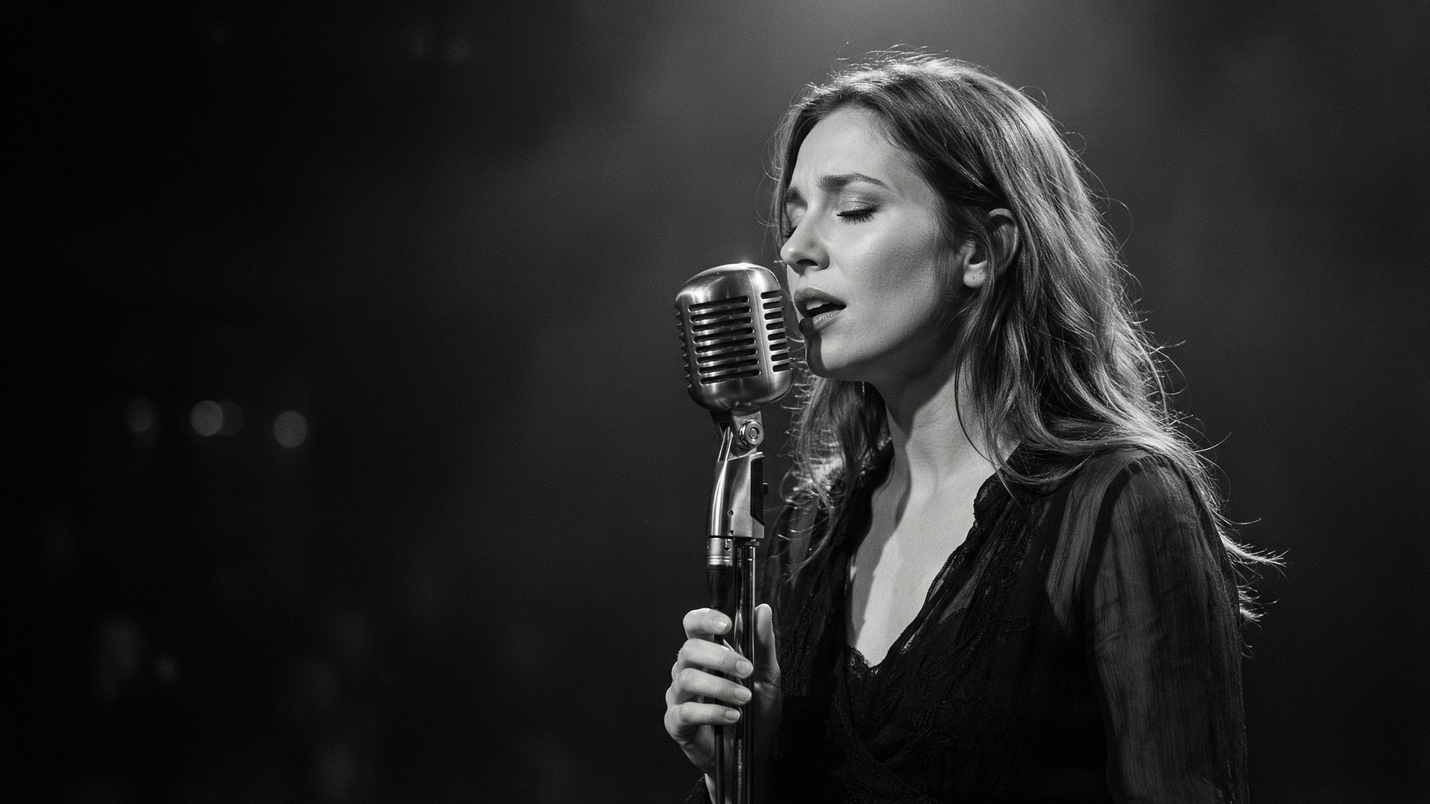
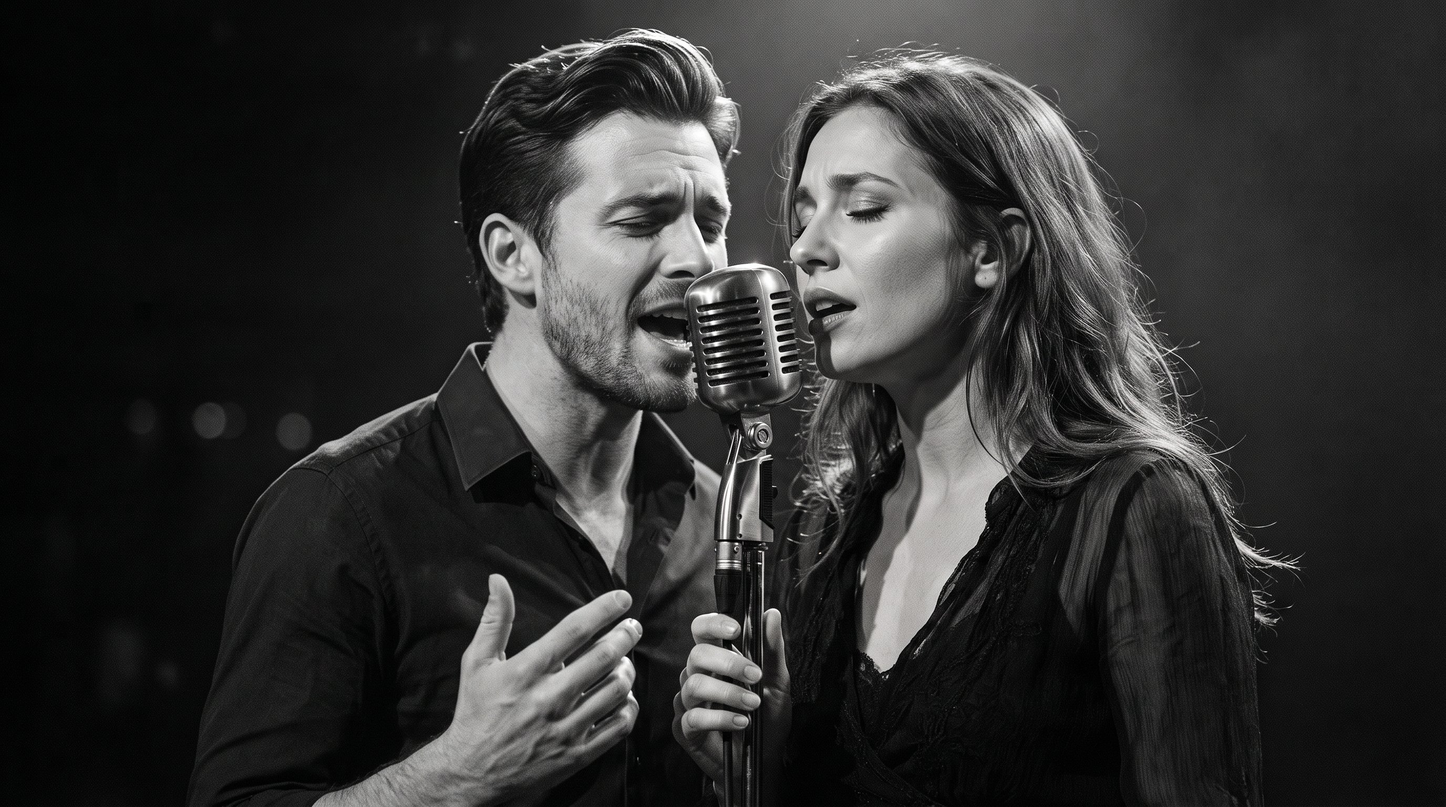
Update B&W background photo to singing duet with vintage microphone

diff --git a/music_website/index.html b/music_website/index.html
@@ -14,10 +14,10 @@
   <meta name="apple-mobile-web-app-status-bar-style" content="black-translucent" />
   <meta name="apple-mobile-web-app-title" content="Моя Музыка" />
   <link rel="manifest" href="manifest.json" />
-  <link rel="stylesheet" href="style.css?v=20261124j" />
+  <link rel="stylesheet" href="style.css?v=20261124n" />
 </head>
 <body>
-  <!-- Чистый полноэкранный чёрно-белый фон с поющей девушкой и падающим снегом -->
+  <!-- Чистый полноэкранный чёрно-белый фон с поющим дуэтом и падающим снегом -->
   <div class="aurora-bg" aria-hidden="true">
     <div class="aurora-photo"></div>
     <div class="aurora-photo-vignette"></div>

diff --git a/music_website/style.css b/music_website/style.css
@@ -104,8 +104,8 @@ body {
 .aurora-photo {
   position: absolute;
   inset: 0;
-  background-image: url("assets/bg-singer.jpg");
-  background-position: 62% 20%;
+  background-image: url("assets/bg-singer.jpg?v=20261124n");
+  background-position: 54% 18%;
   background-size: cover;
   background-repeat: no-repeat;
   filter: grayscale(100%) contrast(1.12) brightness(0.92);
@@ -139,7 +139,7 @@ body.music-playing .aurora-photo {
 
 @media (max-width: 720px) {
   .aurora-photo {
-    background-position: 58% 18%;
+    background-position: 50% 18%;
   }
 }
 
